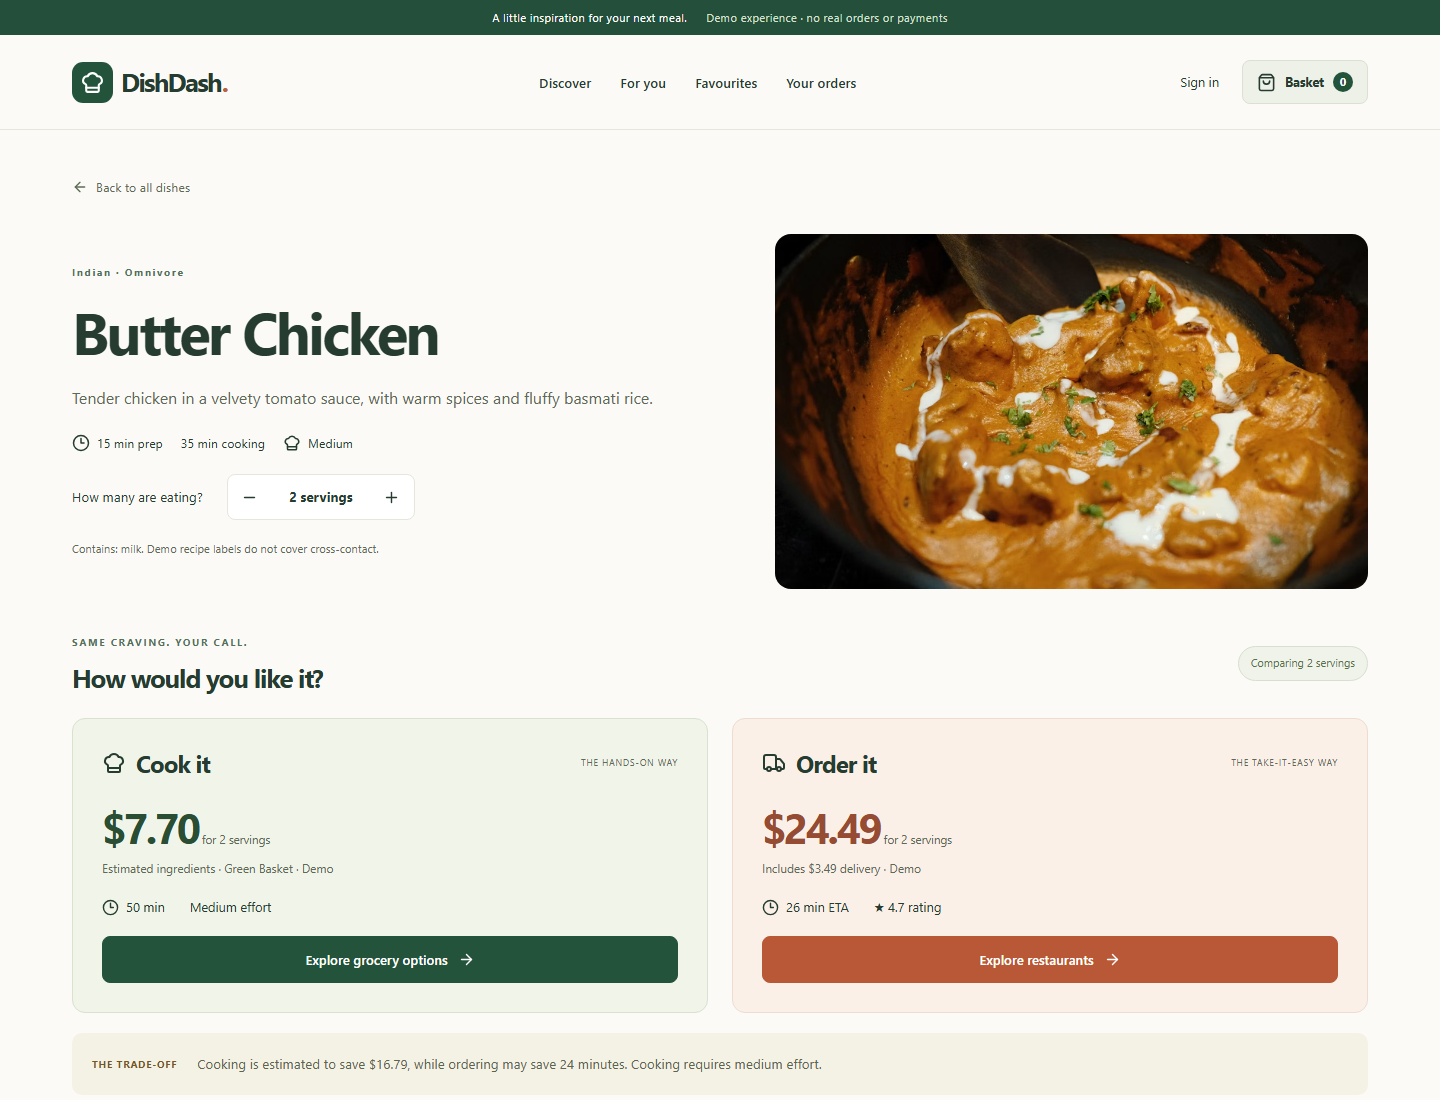
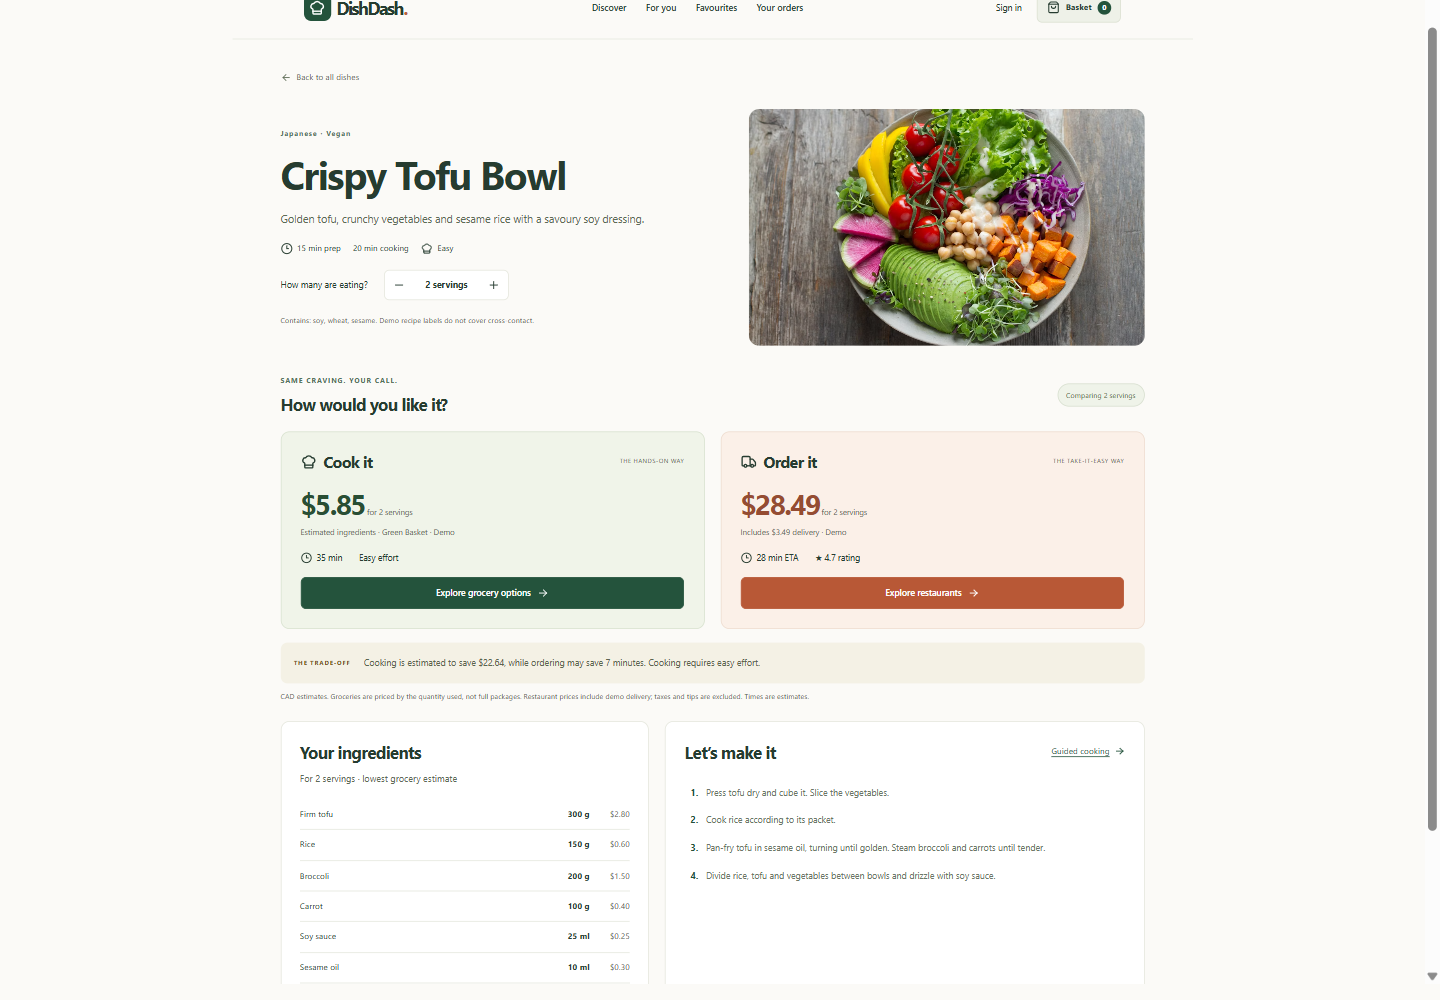
Refresh production screenshots

diff --git a/README.md b/README.md
@@ -26,11 +26,21 @@ Accounts include persistent sign-in, dietary preferences, allergen exclusions, f
 
 ## Screenshots
 
-![Dish discovery](docs/screenshots/discover-desktop.png)
+### Discover
 
-More views: [Cook vs Order comparison](docs/screenshots/comparison-desktop.png) · [Mobile discovery](docs/screenshots/discover-mobile.png).
+![DishDash discovery](docs/screenshots/discover-desktop.png)
 
-The current screenshots were captured during application validation. Photography is illustrative and may differ from the recipe.
+### Cook vs Order
+
+![Cook vs Order comparison](docs/screenshots/comparison-desktop.png)
+
+### Mobile experience
+
+<img src="docs/screenshots/discover-mobile.png" alt="DishDash mobile discovery" width="320">
+
+Additional views: [Demo checkout](docs/screenshots/checkout-desktop.png) · [Order tracking](docs/screenshots/orders-desktop.png).
+
+Screenshots show the live production application. Restaurant and grocery providers, payments and delivery updates remain explicit simulations. Photography is illustrative and may differ from the recipe.
 
 ## Architecture
 
